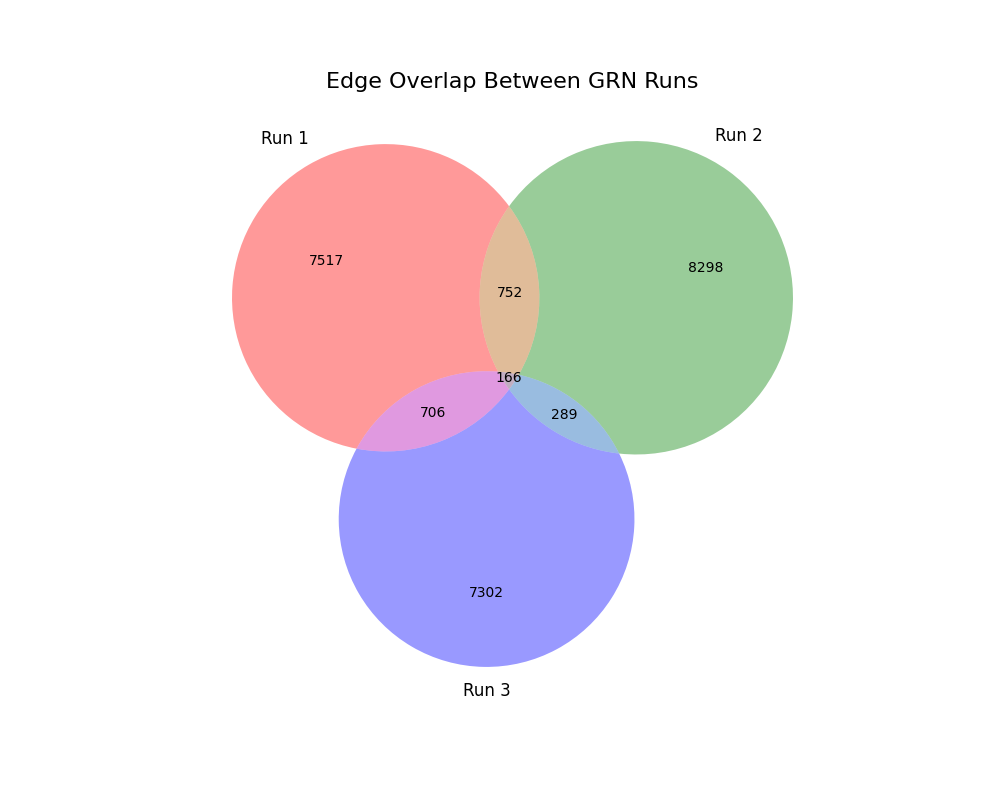
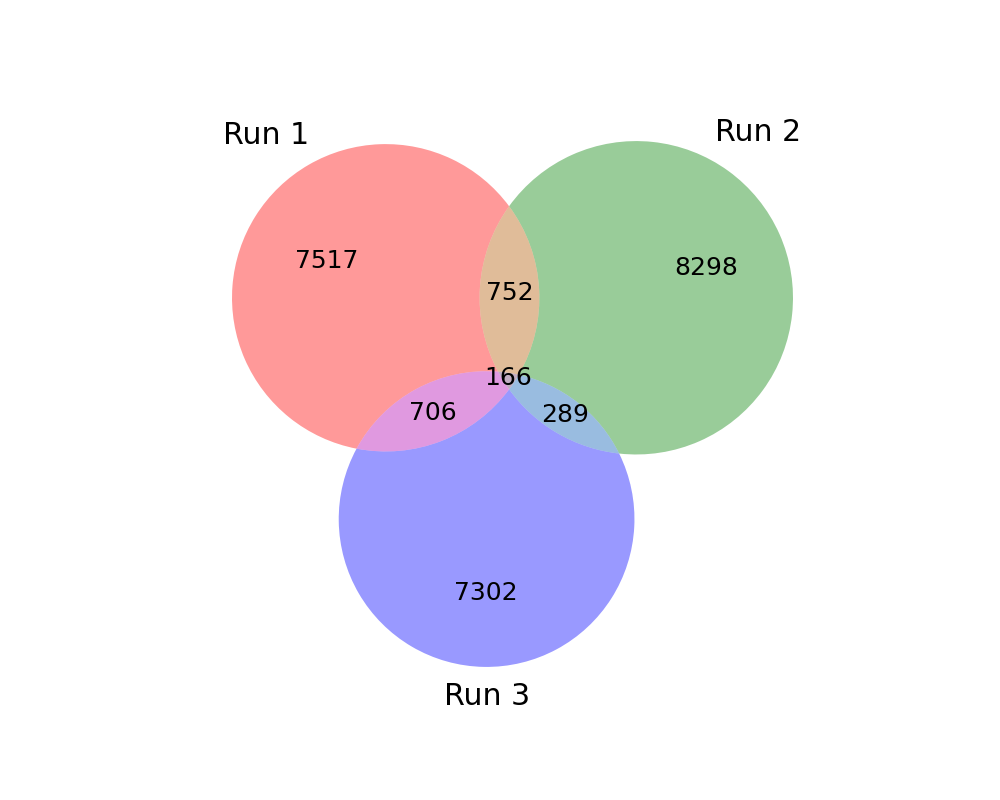
created new venn diagrams with larger fonts

diff --git a/auxiliary_scripts/utilities/assert_run_consistency.py b/auxiliary_scripts/utilities/assert_run_consistency.py
@@ -910,8 +910,9 @@ def evaluate_set_consistency(directory_path, set_type: Literal["edges", "var_nam
 
     def plot_grn_venn(sets_list, filenames):
         plt.figure(figsize=(10, 8))
+        plt.rcParams['font.size'] = 18
         # Create the Venn diagram
-        if len(sets_list) == 3:
+        if len(sets_list) == 3: # set font size so labels are legible in word
             v = venn3(sets_list, set_labels=('Run 1', 'Run 2', 'Run 3'))
         elif len(sets_list) == 2:
             v = venn2(sets_list, set_labels=('Run 1', 'Run 2'))
@@ -1209,7 +1210,9 @@ if __name__ == "__main__":
     #find_consistency_limit(dir=r"/proj/ml_grn/project_julian/Bachelor_thesis_pipeline/Data/output_storage/Error_propagation/GRN_edges/output", set_type="edges")
     #find_consistency_limit(dir=r"/proj/ml_grn/project_julian/Bachelor_thesis_pipeline/Data/output_storage/Error_propagation/GRN_edges/control", set_type="edges")    
 
-    find_consistency_limit(r"/proj/ml_grn/project_julian/Bachelor_thesis_pipeline/Data/output_storage/Error_propagation/isolated/output", set_type="obs_names")
-    find_consistency_limit(r"/proj/ml_grn/project_julian/Bachelor_thesis_pipeline/Data/output_storage/isolated/jaccard_convergence_check", set_type="obs_names")
+    #find_consistency_limit(r"/proj/ml_grn/project_julian/Bachelor_thesis_pipeline/Data/output_storage/Error_propagation/isolated/output", set_type="obs_names")
+    #find_consistency_limit(r"/proj/ml_grn/project_julian/Bachelor_thesis_pipeline/Data/output_storage/isolated/jaccard_convergence_check", set_type="obs_names")
 
-    
+    evaluate_set_consistency(r"/proj/ml_grn/project_julian/Bachelor_thesis_pipeline/Data/output_storage/isolated", set_type="obs_names")
+    evaluate_set_consistency(r"/proj/ml_grn/project_julian/Bachelor_thesis_pipeline/Data/output_storage/pseudotime", set_type="var_names")
+    evaluate_set_consistency(r"/proj/ml_grn/project_julian/Bachelor_thesis_pipeline/Data/output_storage/GRN_edges", set_type="edges")
